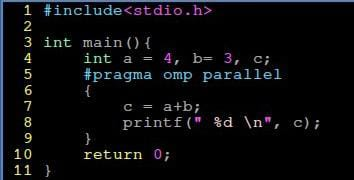
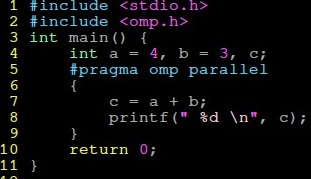
omp.h adding

diff --git a/index.html b/index.html
@@ -21,6 +21,7 @@
         <p>Hello! I’m Alif Azam, an undergraduate Physics student of Shahjalal University of Science and Technology, Sylhet and a passionate tech enthusiast with a strong interest in computers, Linux systems and embedded devices. I’m currently working with a HPC(High Performance Computing) cluster while diving deep into Linux systems, memory management and HPC maintenance. I enjoy working on creative technical projects like solving system problems, engaging in analytical modeling and exploring machine learning techniques. I also have experience in Python, Arduino, and ESP32-CAM. Beyond tech, I enjoy reading books and playing chess. With a love for simplicity and continuous learning, I strive to combine my technical skills and creativity to explore and innovate. 
         </p>
 		<!--
+	-->
 	<h3><b>My Skills</b></h3>
 	<ul>
 		<li><b>Languages: </b>Python, C, HTML, LaTeX, Bash Scripting</li>
@@ -30,7 +31,6 @@
 		<li><b>Embedded System:</b> Arduino, ESP32, ESP8266</li>
 	</ul>
 	<a href="AlifAzam_resume.pdf" download_AlifAzam_resume" style="display: block; margin: 20px auto; width: fit-content;"><button>My Resume</button></a>
-	-->
     </main>
 </body>
 </html>

diff --git a/random-tech-talk/how-c-executable-works.html b/random-tech-talk/how-c-executable-works.html
@@ -20,7 +20,7 @@
 	<div style="display: flex;">
     	<figure style="width: 50%; text-align: center;">
       	<img src="c-programme.jpeg" alt="Sequential C Program" style="width: 100%;">
-      	<figcaption>Sequential C Program</figcaption>
+      	<figcaption>Serial C Program</figcaption>
     	</figure>
     	<figure style="width: 50%; text-align: center;">
       	<img src="c-programme-parallel.jpeg" alt="Parallel C Program" style="width: 100%;">
@@ -30,7 +30,7 @@
 	</p>
         <hr>
         <footer>
-            <p>Last updated on: <b>June 25, 2025</b></p>
+            <p>Last updated on: <b>July 16, 2025</b></p>
         </footer>
     </main>
 </body>
